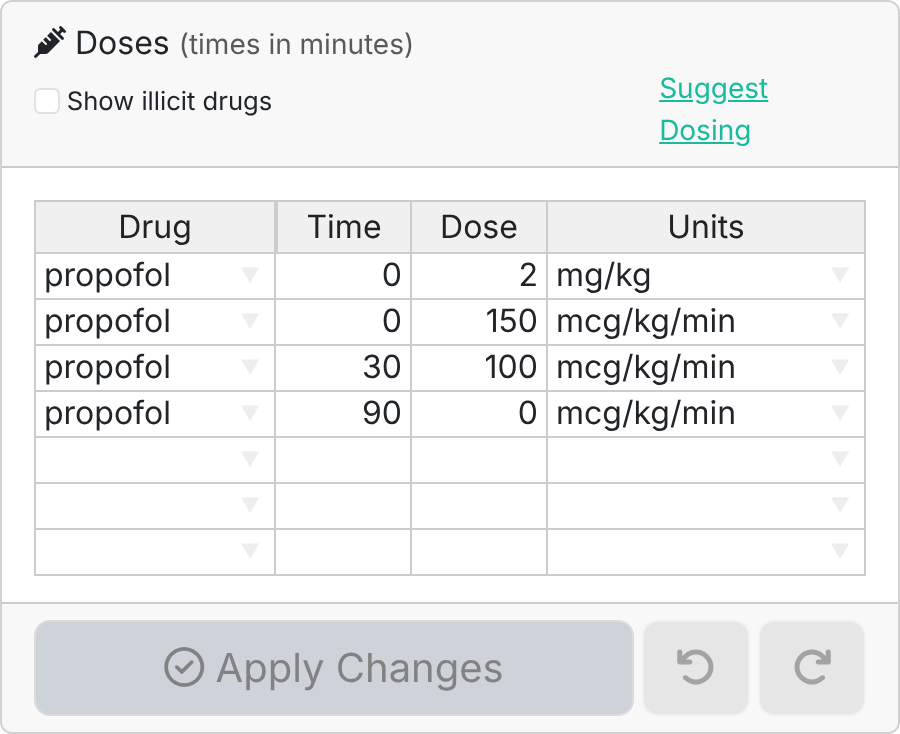
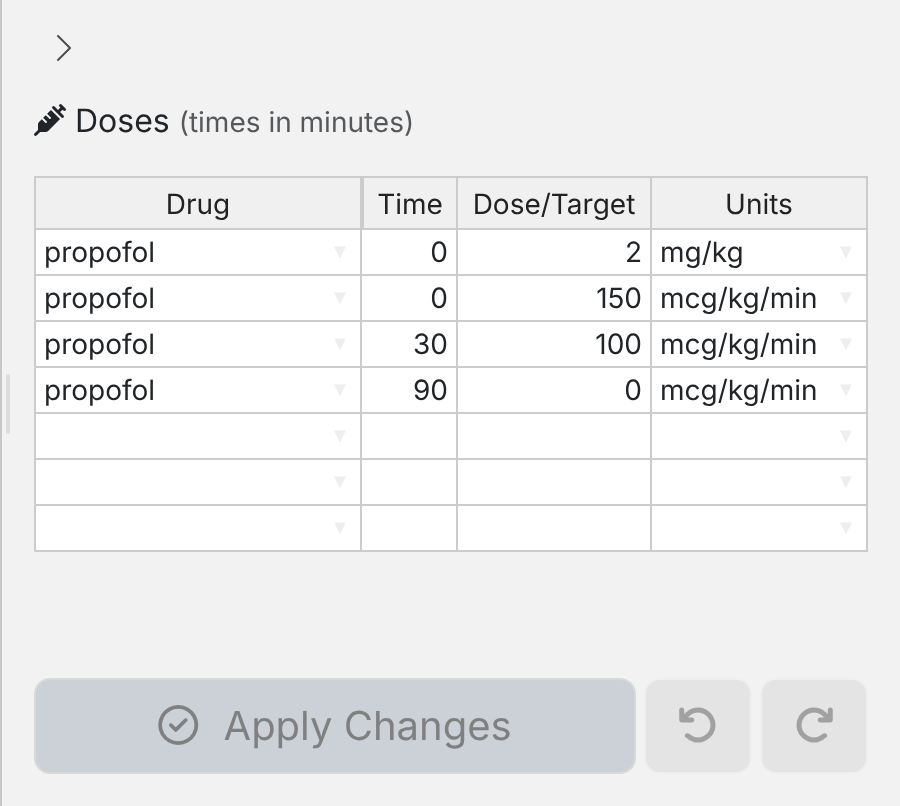
Recapture the help tour's screenshots with a script; update its text (#650)
* Recapture the tour's screenshots with a script; update its text

The seven pictures of the five-minute tour predated the Time panel's
sliders, the dose table's Dose/Target column and Add new drug button,
Additional plots at the foot of Graph Options, the Parkinson disease
category and the Patient Profile fields shown only while a drug reads them.
data-raw/help-screenshots.js now makes them with Playwright from the
propofol-induction-maintenance scenario's deep link, so they can be
remade whenever the interface changes, and adds one of the Time panel.

The text follows: the Time panel is described with its own picture, the
log axis is said to be offered only while no right-hand scale is drawn,
the drug-specific Graph Options and Patient Profile fields are said to
appear only with such a drug, and Opioid tolerance is mentioned.

Claude-Session: https://claude.ai/code/session_0169csHpYd5QcSAiVDukRaVP

* Carry #649's review: qualified calls with arguments; two help caveats

- test-agent-docs checks every documented pkg::fn( call, with or without
  arguments (renv::install("pkg"), jsonlite::fromJSON(...)), against the
  package's exports, not only empty ones.
- libraryReferenceClearance(): for a model fitted outside adults
  (dobutamineNeonatal()) the value is an extrapolation to the reference man,
  not a published reference value.
- creatininePlaceholder(): the placeholder shows the assumed value for age
[…]

diff --git a/data-raw/help-screenshots.js b/data-raw/help-screenshots.js
@@ -1,0 +1,111 @@
+// Recapture the screenshots of the help's five-minute tour
+// (inst/help/quick-start.md -> inst/www/help/quick-start-*.png).
+//
+// The pictures drift as the interface changes, so they are made by this script
+// rather than by hand, from the teaching scenario the tour describes
+// (propofol-induction-maintenance), reached by its deep link.
+//
+// 1. Start the app on a fixed port, with a config.yml whose title is
+//    "stanpumpR" and whose debug is 0 (no Debug Section under the plot):
+//      Rscript -e 'devtools::load_all("."); shiny::runApp(run_app(), port = 7788)'
+// 2. From the repository root, with Playwright installed:
+//      node data-raw/help-screenshots.js [http://127.0.0.1:7788]
+//
+// Every capture is at twice the CSS pixel size, as the help displays them
+// scaled down.
+
+const { chromium } = require('playwright');
+const path = require('path');
+
+const BASE = process.argv[2] || 'http://127.0.0.1:7788';
+const OUT = path.join(__dirname, '..', 'inst', 'www', 'help');
+const SCENARIO = 'propofol-induction-maintenance';
+const VIEWPORT = { width: 1400, height: 820 };
+
+const out = name => path.join(OUT, `quick-start-${name}.png`);
+
+// Wait until Shiny is idle and the plot has drawn.
+async function settle(page, ms = 1500) {
+  await page.waitForFunction(() =>
+    window.Shiny && !document.documentElement.classList.contains('shiny-busy'),
+    null, { timeout: 60000 });
+  await page.waitForTimeout(ms);
+}
+
+async function simulatorPage(browser) {
+  const page = await browser.newPage({ viewport: VIEWPORT, deviceScaleFactor: 2 });
+  await page.goto(`${BASE}/?scenario=${SCENARIO}`);
+  await page.waitForSelector('#PlotSimulation img', { timeout: 60000 });
+  await settle(page, 3000);
+  // the scenario's "Loaded" notification would cover the dose panel
+  await page.addStyleTag({ content: '#shiny-notification-panel { display: none !important; }' });
+  return page;
+}
+
+// Open one accordion panel of the left sidebar (and close the others).
+async function openPanel(page, value) {
+  const item = page.locator(`.accordion-item[data-value="${value}"]`);
+  await item.locator('.accordion-button').click();
+  await settle(page, 1200);
+  return item;
+}
+
+(async () => {
+  const browser = await chromium.launch();
+
+  // The opening dialog, as on a first visit (a fresh browser has no record
+  // of the weekly welcome), in a window tall enough for the whole dialog:
+  // a shorter one scrolls it and cuts off the Start button.
+  {
+    const page = await browser.newPage({ viewport: { width: VIEWPORT.width, height: 1150 },
+                                          deviceScaleFactor: 2 });
+    await page.goto(`${BASE}/`);
+    const modal = page.locator('.modal-content');
+    await modal.waitFor({ timeout: 60000 });
+    await page.waitForTimeout(1500);
+    await modal.screenshot({ path: out('welcome') });
+    await page.close();
+  }
+
+  {
+    const page = await simulatorPage(browser);
+    await page.screenshot({ path: out('simulator') });
+
+    await page.locator('#PlotSimulation').screenshot({ path: out('plot') });
+
+    // The dose panel fills the window's height; a short window keeps the
+    // picture to the table and its buttons.
+    await page.setViewportSize({ width: VIEWPORT.width, height: 580 });
+    await settle(page, 1500);
+    await page.locator('aside.dose-sidebar').screenshot({ path: out('doses') });
+    // and a tall one shows a whole sidebar panel without its scroll bar
+    await page.setViewportSize({ width: VIEWPORT.width, height: 1250 });
+    await settle(page, 1500);
+
+    const sidebar = page.locator('aside.sidebar:not(.dose-sidebar):not(.help-sidebar) .accordion').first();
+    await openPanel(page, 'Patient Profile');
+    await sidebar.screenshot({ path: out('patient') });
+
+    await openPanel(page, 'Patient Profile');   // close it again
+    await openPanel(page, 'Graph Options');
+    await sidebar.screenshot({ path: out('graph-options') });
+
+    await openPanel(page, 'Graph Options');
+    await openPanel(page, 'time');
+    await sidebar.screenshot({ path: out('time') });
+    await page.close();
+  }
+
+  // The scenario's own help page, top of the page only.
+  {
+    const page = await browser.newPage({ viewport: { width: 1400, height: 620 },
+                                          deviceScaleFactor: 2 });
+    await page.goto(`${BASE}/?help=scenarios/${SCENARIO}`);
+    await page.waitForSelector('h1.help-title', { timeout: 60000 });
+    await settle(page, 1500);
+    await page.screenshot({ path: out('scenario-page') });
+    await page.close();
+  }
+
+  await browser.close();
+})();

diff --git a/inst/help/quick-start.md b/inst/help/quick-start.md
@@ -1,14 +1,14 @@
 Five steps produce a simulation. Everything else in this help is refinement.
 
 <figure class="help-figure">
-<img src="stanpumpr-assets/help/quick-start-simulator.png" alt="The simulator: the options sidebar on the left, the plot in the middle, the dose table on the right">
-<figcaption>The simulator. Patient and graph settings on the left, the plot in the middle, the dose table on the right.</figcaption>
+<img src="stanpumpr-assets/help/quick-start-simulator.png" alt="The simulator: on the left the Patient Profile, Graph Options, Time, Dose table and Email Slide panels; the plot in the middle with the Add new drug button beneath it; the dose table on the right with Apply Changes, Undo and Redo">
+<figcaption>The simulator. Patient, graph and time settings on the left, the plot in the middle, the dose table on the right.</figcaption>
 </figure>
 
-When the app opens it asks which drugs to display. The drugs are grouped by category: hypnotics and sedatives, opioids, oral analgesics, neuromuscular blockade, inhaled anesthetics, antibiotics, corticosteroids, antidepressants, stimulants, local anesthetics, antiemetics, antiseizure drugs, antipsychotics, antidiabetic drugs, anticoagulants, antihypertensives, vasoactive and resuscitation drugs, and others. Each category starts collapsed, showing only its name and how many drugs it holds; click it to open its list and tick the drugs you want. A category with drugs ticked says how many, even when collapsed again. Nothing is ticked to begin with. The illicit-drug research models are never offered here. **Start** puts each ticked drug in the dose table with a dose of 0 at time 0, ready to edit; with nothing ticked, the dose table starts empty. Any drug can be added to the dose table later.
+When the app opens it asks which drugs to display. The drugs are grouped by category: hypnotics and sedatives, opioids, oral analgesics, neuromuscular blockade, inhaled anesthetics, antibiotics, corticosteroids, antidepressants, stimulants, local anesthetics, antiemetics, antiseizure drugs, antipsychotics, antidiabetic drugs, anticoagulants, antihypertensives, vasoactive and resuscitation drugs, Parkinson disease, and others. Each category starts collapsed, showing only its name and how many drugs it holds; click it to open its list and tick the drugs you want. A category with drugs ticked says how many, even when collapsed again. Nothing is ticked to begin with. The illicit-drug research models are never offered here. **Start** puts each ticked drug in the dose table with a dose of 0 at time 0, ready to edit; with nothing ticked, the dose table starts empty. Any drug can be added to the dose table later.
 
 <figure class="help-figure help-figure-medium">
-<img src="stanpumpr-assets/help/quick-start-welcome.png" alt="The opening dialog: the statement of what stanpumpR is, a Take the tour button, and the drug categories as eighteen collapsed sections, each with the number of drugs it holds, and a Start button at the bottom">
+<img src="stanpumpr-assets/help/quick-start-welcome.png" alt="The opening dialog: the statement of what stanpumpR is, a Take the tour button, and the drug categories as collapsed sections, each with the number of drugs it holds, and a Start button at the bottom">
 <figcaption>The opening dialog, as on a first visit: the statement of what stanpumpR is, then the drug categories, each collapsed until clicked.</figcaption>
 </figure>
 
@@ -21,18 +21,18 @@ A link to a saved simulation, or reloading the page, skips the question and open
 Open **Patient Profile** in the left sidebar. Enter age, weight, height and sex. The unit buttons beside each field switch between years and months, kilograms and pounds, inches and centimetres. These four covariates drive the pharmacokinetic models, so they change the predictions.
 
 <figure class="help-figure help-figure-narrow">
-<img src="stanpumpr-assets/help/quick-start-patient.png" alt="The Patient Profile panel: age with yr/mo buttons, weight with kg/lb and the ticked Adjust weight to fat-free mass box, height with in/cm, sex, CYP 2D6 and CYP 2C19 set to Normal, CYP 2C9 set to *1/*1, baseline serum osmolality of 280 mOsm/kg, and an empty Serum creatinine field">
-<figcaption>The Patient Profile panel for a 40-year-old man. Serum creatinine is left blank, so a normal value is assumed. The genotype, osmolality and creatinine fields are now shown only while a drug that reads them is in the dose table, and Pregnant only for a woman of 12 to 59.</figcaption>
+<img src="stanpumpr-assets/help/quick-start-patient.png" alt="The Patient Profile panel: age with yr/mo buttons, weight with kg/lb and the ticked Adjust weight to fat-free mass box, height with in/cm, and sex">
+<figcaption>The Patient Profile panel for a 40-year-old man given propofol. Propofol reads none of the other fields, so only these are shown; a genotype, the serum creatinine or the baseline osmolality appears when a drug that reads it is in the dose table.</figcaption>
 </figure>
 
-*Adjust weight to fat-free mass* is on by default. The fields below are shown only while a drug that reads them is in the dose table. *CYP 2D6* sets the metaboliser phenotype for the drugs with active metabolites, some antipsychotics and metoprolol; *CYP 2C19*, *CYP 2C9*, *CYP 2B6*, *VKORC1* and *CYP4F2* are read by the few drugs whose models depend on them. *Baseline serum osmolality* is read only by mannitol. *Serum creatinine* is optional and used by the drugs with a renal covariate; left blank, a normal value is assumed. *Pregnant*, shown for a woman of 12 to 59, applies the documented changes of late pregnancy to the drugs whose models have them. See [Patient profile](help:patient-profile).
+*Adjust weight to fat-free mass* is on by default. The fields below it are shown only while a drug that reads them is in the dose table, and the question mark beside each names those drugs. *CYP 2D6* sets the metaboliser phenotype for the drugs with active metabolites, some antipsychotics and metoprolol; *CYP 2C19*, *CYP 2C9*, *CYP 2B6*, *VKORC1* and *CYP4F2* are read by the few drugs whose models depend on them. *Baseline serum osmolality* is read only by mannitol. *Serum creatinine* is optional and used by the drugs with a renal covariate; left blank, a normal value is assumed. *Pregnant*, shown for a woman of 12 to 59, applies the documented changes of late pregnancy to the drugs whose models have them. *Opioid tolerance*, shown while an opioid is dosed, raises the MEAC of every opioid that has one, including the active metabolites codeine and tramadol form (codeine, tramadol and buprenorphine have none of their own). See [Patient profile](help:patient-profile).
 
 ## 2. Enter the doses
 
-The **Doses** table is in the panel to the right of the plot (the arrow at its top hides and shows it). In the *Drug* column, start typing a drug name and choose from the list. Enter a *Time*, a *Dose*, and pick *Units*. Times are in the **Time units** chosen in the *Time* panel of the left sidebar: minutes when the app opens, or hours, days or weeks for longer courses (changing the unit converts the table). With the *Actual time* display, a time like `09:30` is a clock time.
+The **Doses** table is in the panel to the right of the plot (the arrow at its top hides and shows it). In the *Drug* column, start typing a drug name and choose from the list. Enter a *Time*, a dose in the *Dose/Target* column (a target concentration for a TCI row), and pick *Units*. Times are in the **Time units** chosen in the *Time* panel of the left sidebar: minutes when the app opens, or hours, days or weeks for longer courses (changing the unit converts the table). With the *Actual time* display, a time like `09:30` is a clock time.
 
 <figure class="help-figure help-figure-medium">
-<img src="stanpumpr-assets/help/quick-start-doses.png" alt="The dose table with four propofol rows: a 2 mg/kg bolus, an infusion of 150 then 100 mcg/kg/min, and a stop at 90 minutes; below it the Apply Changes, Undo and Redo buttons">
+<img src="stanpumpr-assets/help/quick-start-doses.png" alt="The dose table, with Drug, Time, Dose/Target and Units columns, holding four propofol rows: a 2 mg/kg bolus, an infusion of 150 then 100 mcg/kg/min, and a stop at 90 minutes; below it the Apply Changes, Undo and Redo buttons">
 <figcaption>A propofol induction and infusion: a bolus, two infusion rates, and a row with a dose of 0 to stop the infusion. Apply Changes, Undo and Redo are beneath the table.</figcaption>
 </figure>
 
@@ -64,14 +64,21 @@ See [Reading the plot](help:reading-the-plot).
 
 ## 5. Refine
 
-The **Time** panel sets the time units, how far the simulation runs (the *Max time* slider) and where the axis starts (the *Min time* slider, for a close look late in a long plot). **Graph Options** sets line styles, normalization, a log axis, the *Time until threshold* lines, and the *Minto / Schnider* switch that draws those propofol and remifentanil models beside the library's own.
+The **Time** panel, in the left sidebar, sets the time units, how far the simulation runs (the *Max time* slider), where the axis starts (the *Min time* slider, for a close look late in a long plot) and whether times are elapsed or clock times.
 
 <figure class="help-figure help-figure-narrow">
-<img src="stanpumpr-assets/help/quick-start-graph-options.png" alt="The Graph Options panel: Show typical, Normalize to, plasma and effect-site line styles, Y axis height, Time until threshold, the opioid-MAC interaction checkbox and the Minto / Schnider switch">
-<figcaption>The Graph Options panel.</figcaption>
+<img src="stanpumpr-assets/help/quick-start-time.png" alt="The Time panel: Time units set to Minutes, the Max time slider at 120 min, the Min time slider at 0 min, and Time Display set to Elapsed time">
+<figcaption>The Time panel.</figcaption>
 </figure>
 
-- **Additional plots**, under Graph Options, adds the MEAC panel for comparing opioids, the propofol-opioid interaction panel, and the clinical events timeline.
+**Graph Options** sets line styles, normalization, the *Time until threshold* lines, a log axis (offered while no right-hand scale is drawn), the *Peripheral compartments* panels, and the *Minto / Schnider* switch that draws those propofol and remifentanil models beside the library's own. Options that apply only to some drugs, such as the opioid-MAC interaction and % MEAC, appear while such a drug is dosed.
+
+<figure class="help-figure help-figure-narrow">
+<img src="stanpumpr-assets/help/quick-start-graph-options.png" alt="The Graph Options panel: Show typical, Normalize to, plasma and effect-site line styles, Y axis height, Time until threshold, Peripheral compartments, the Minto / Schnider switch, and Additional plots with its Events box">
+<figcaption>The Graph Options panel, for propofol alone.</figcaption>
+</figure>
+
+- **Additional plots**, at the foot of Graph Options, adds the clinical events timeline and, while the drugs they need are dosed, the MEAC panel for comparing opioids and the propofol-opioid interaction panel.
 - **Suggest Dosing** (in the *Dose table* panel of the left sidebar) works backwards from a target effect-site concentration.
 - The URL in your browser's address bar encodes the whole simulation; copy it to share or save your work. See [Sharing a simulation by URL](help:sharing).
 
